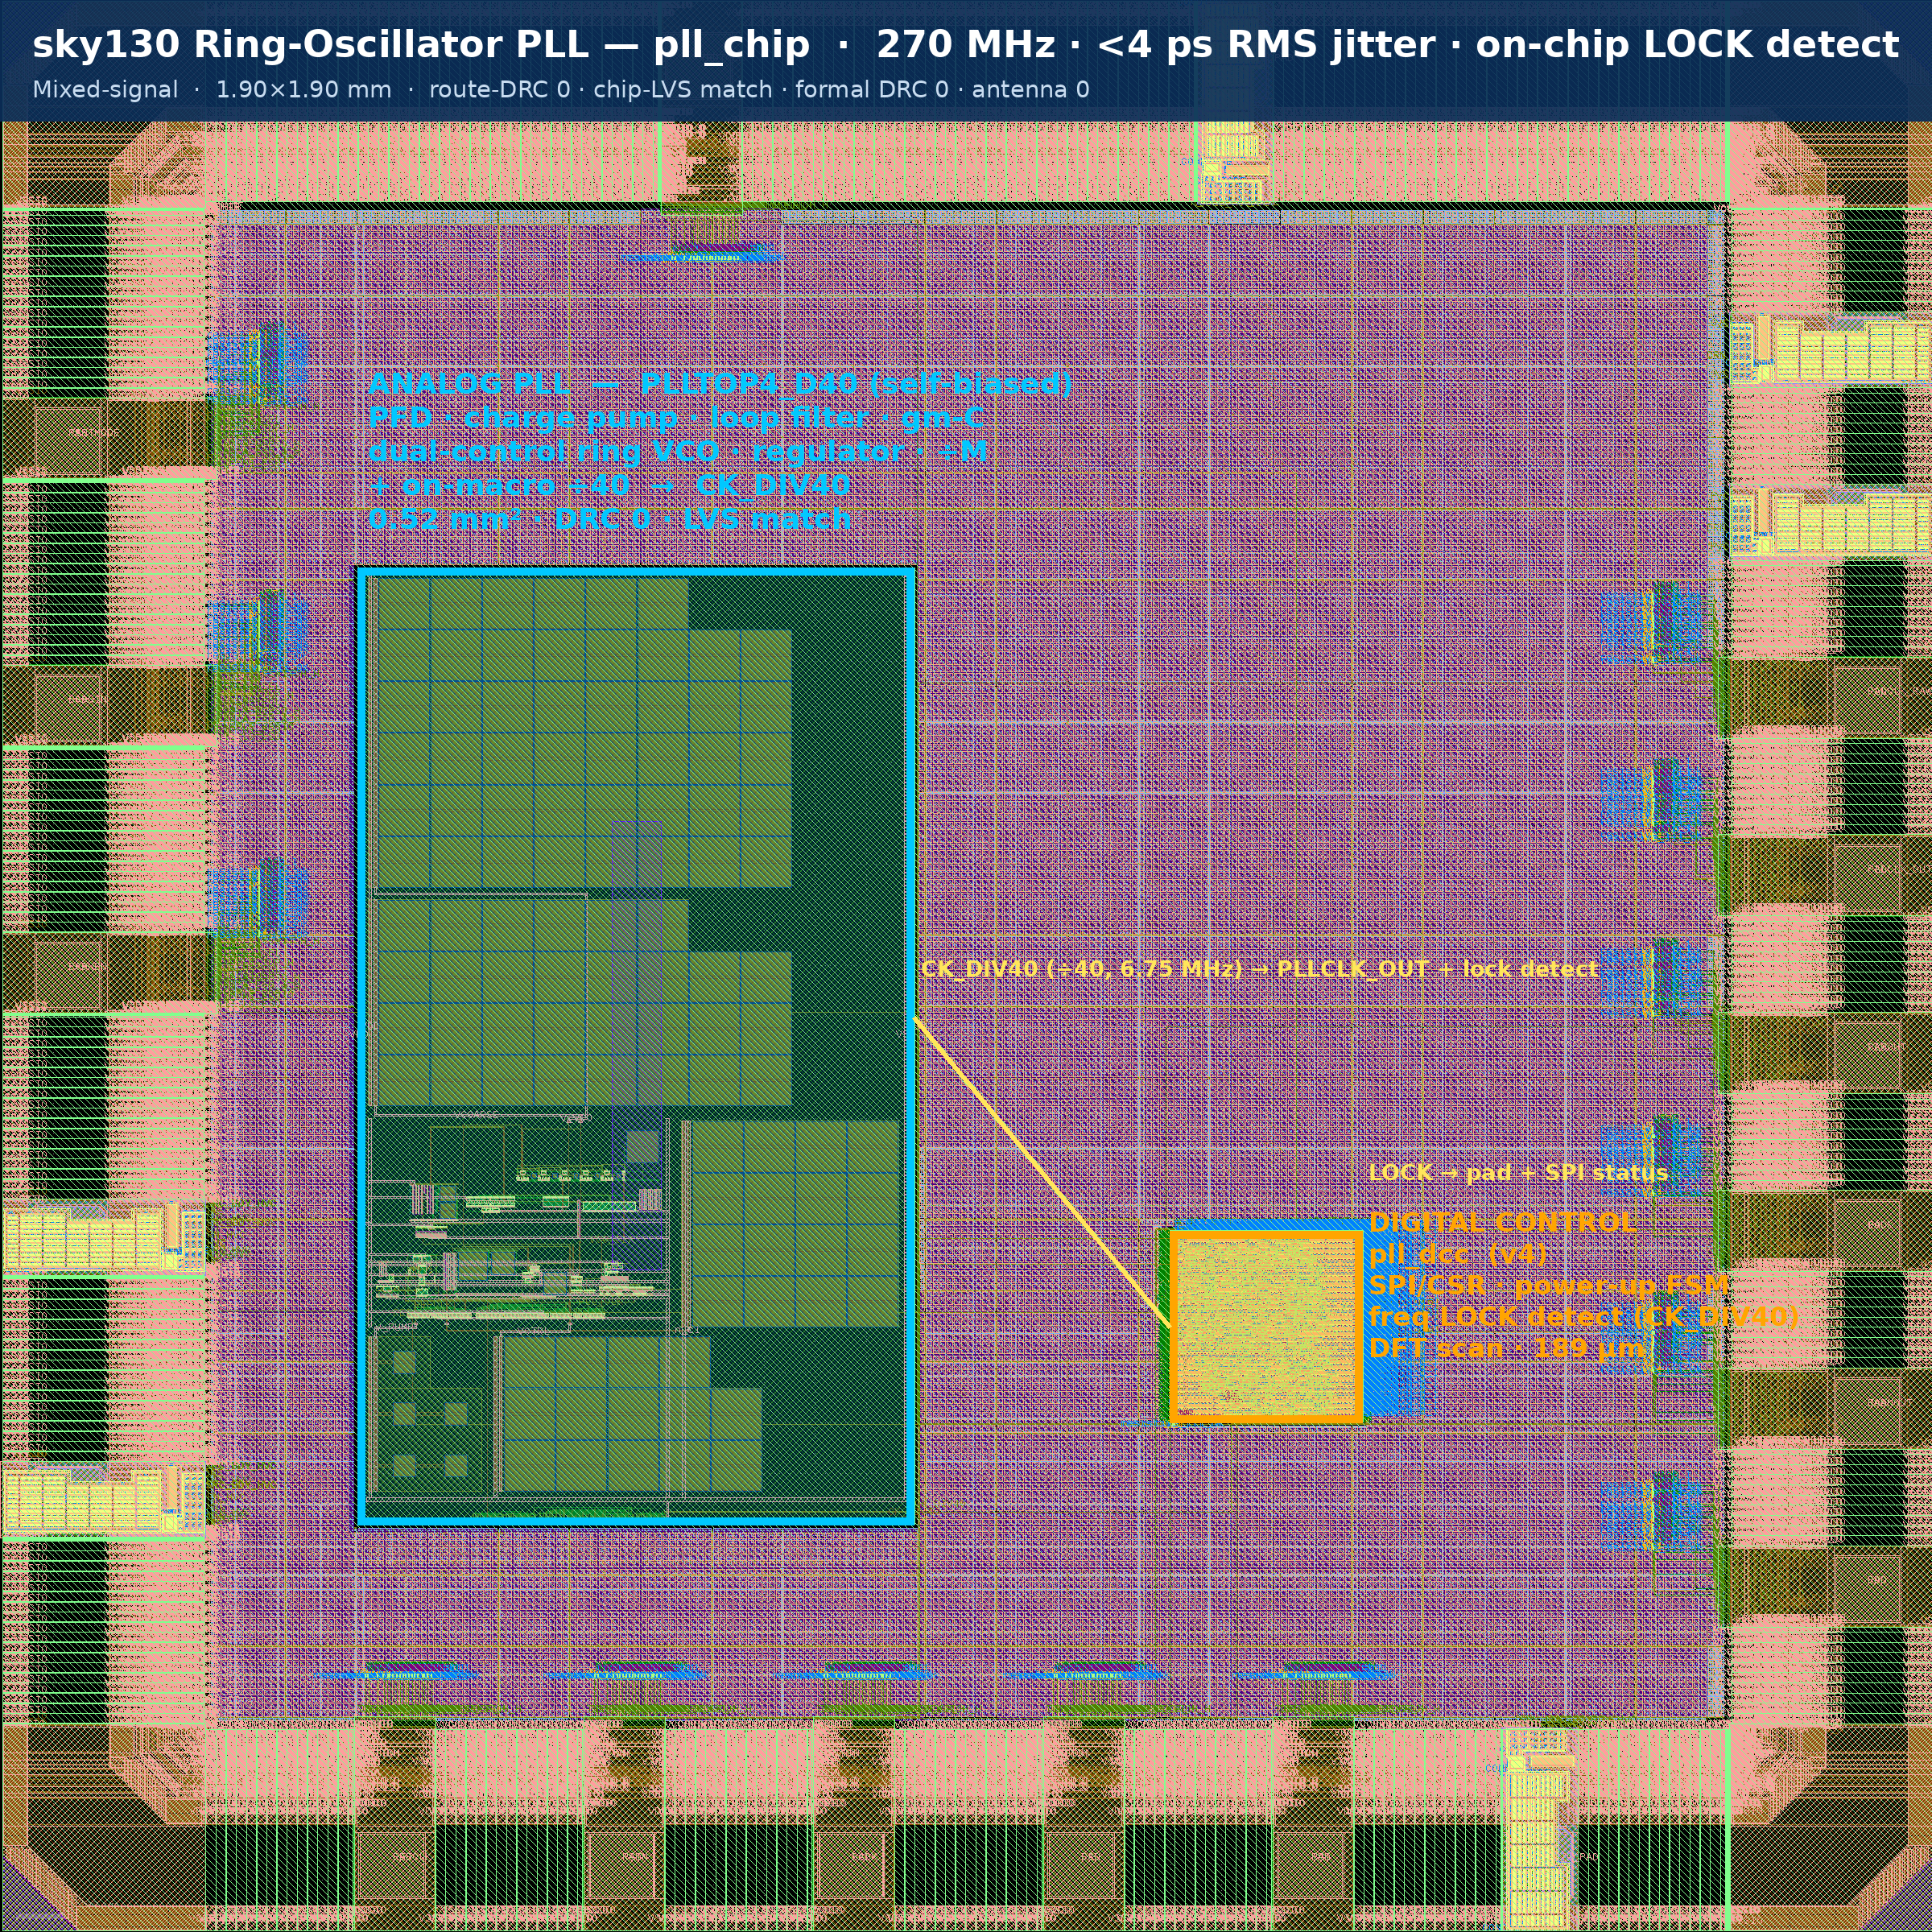
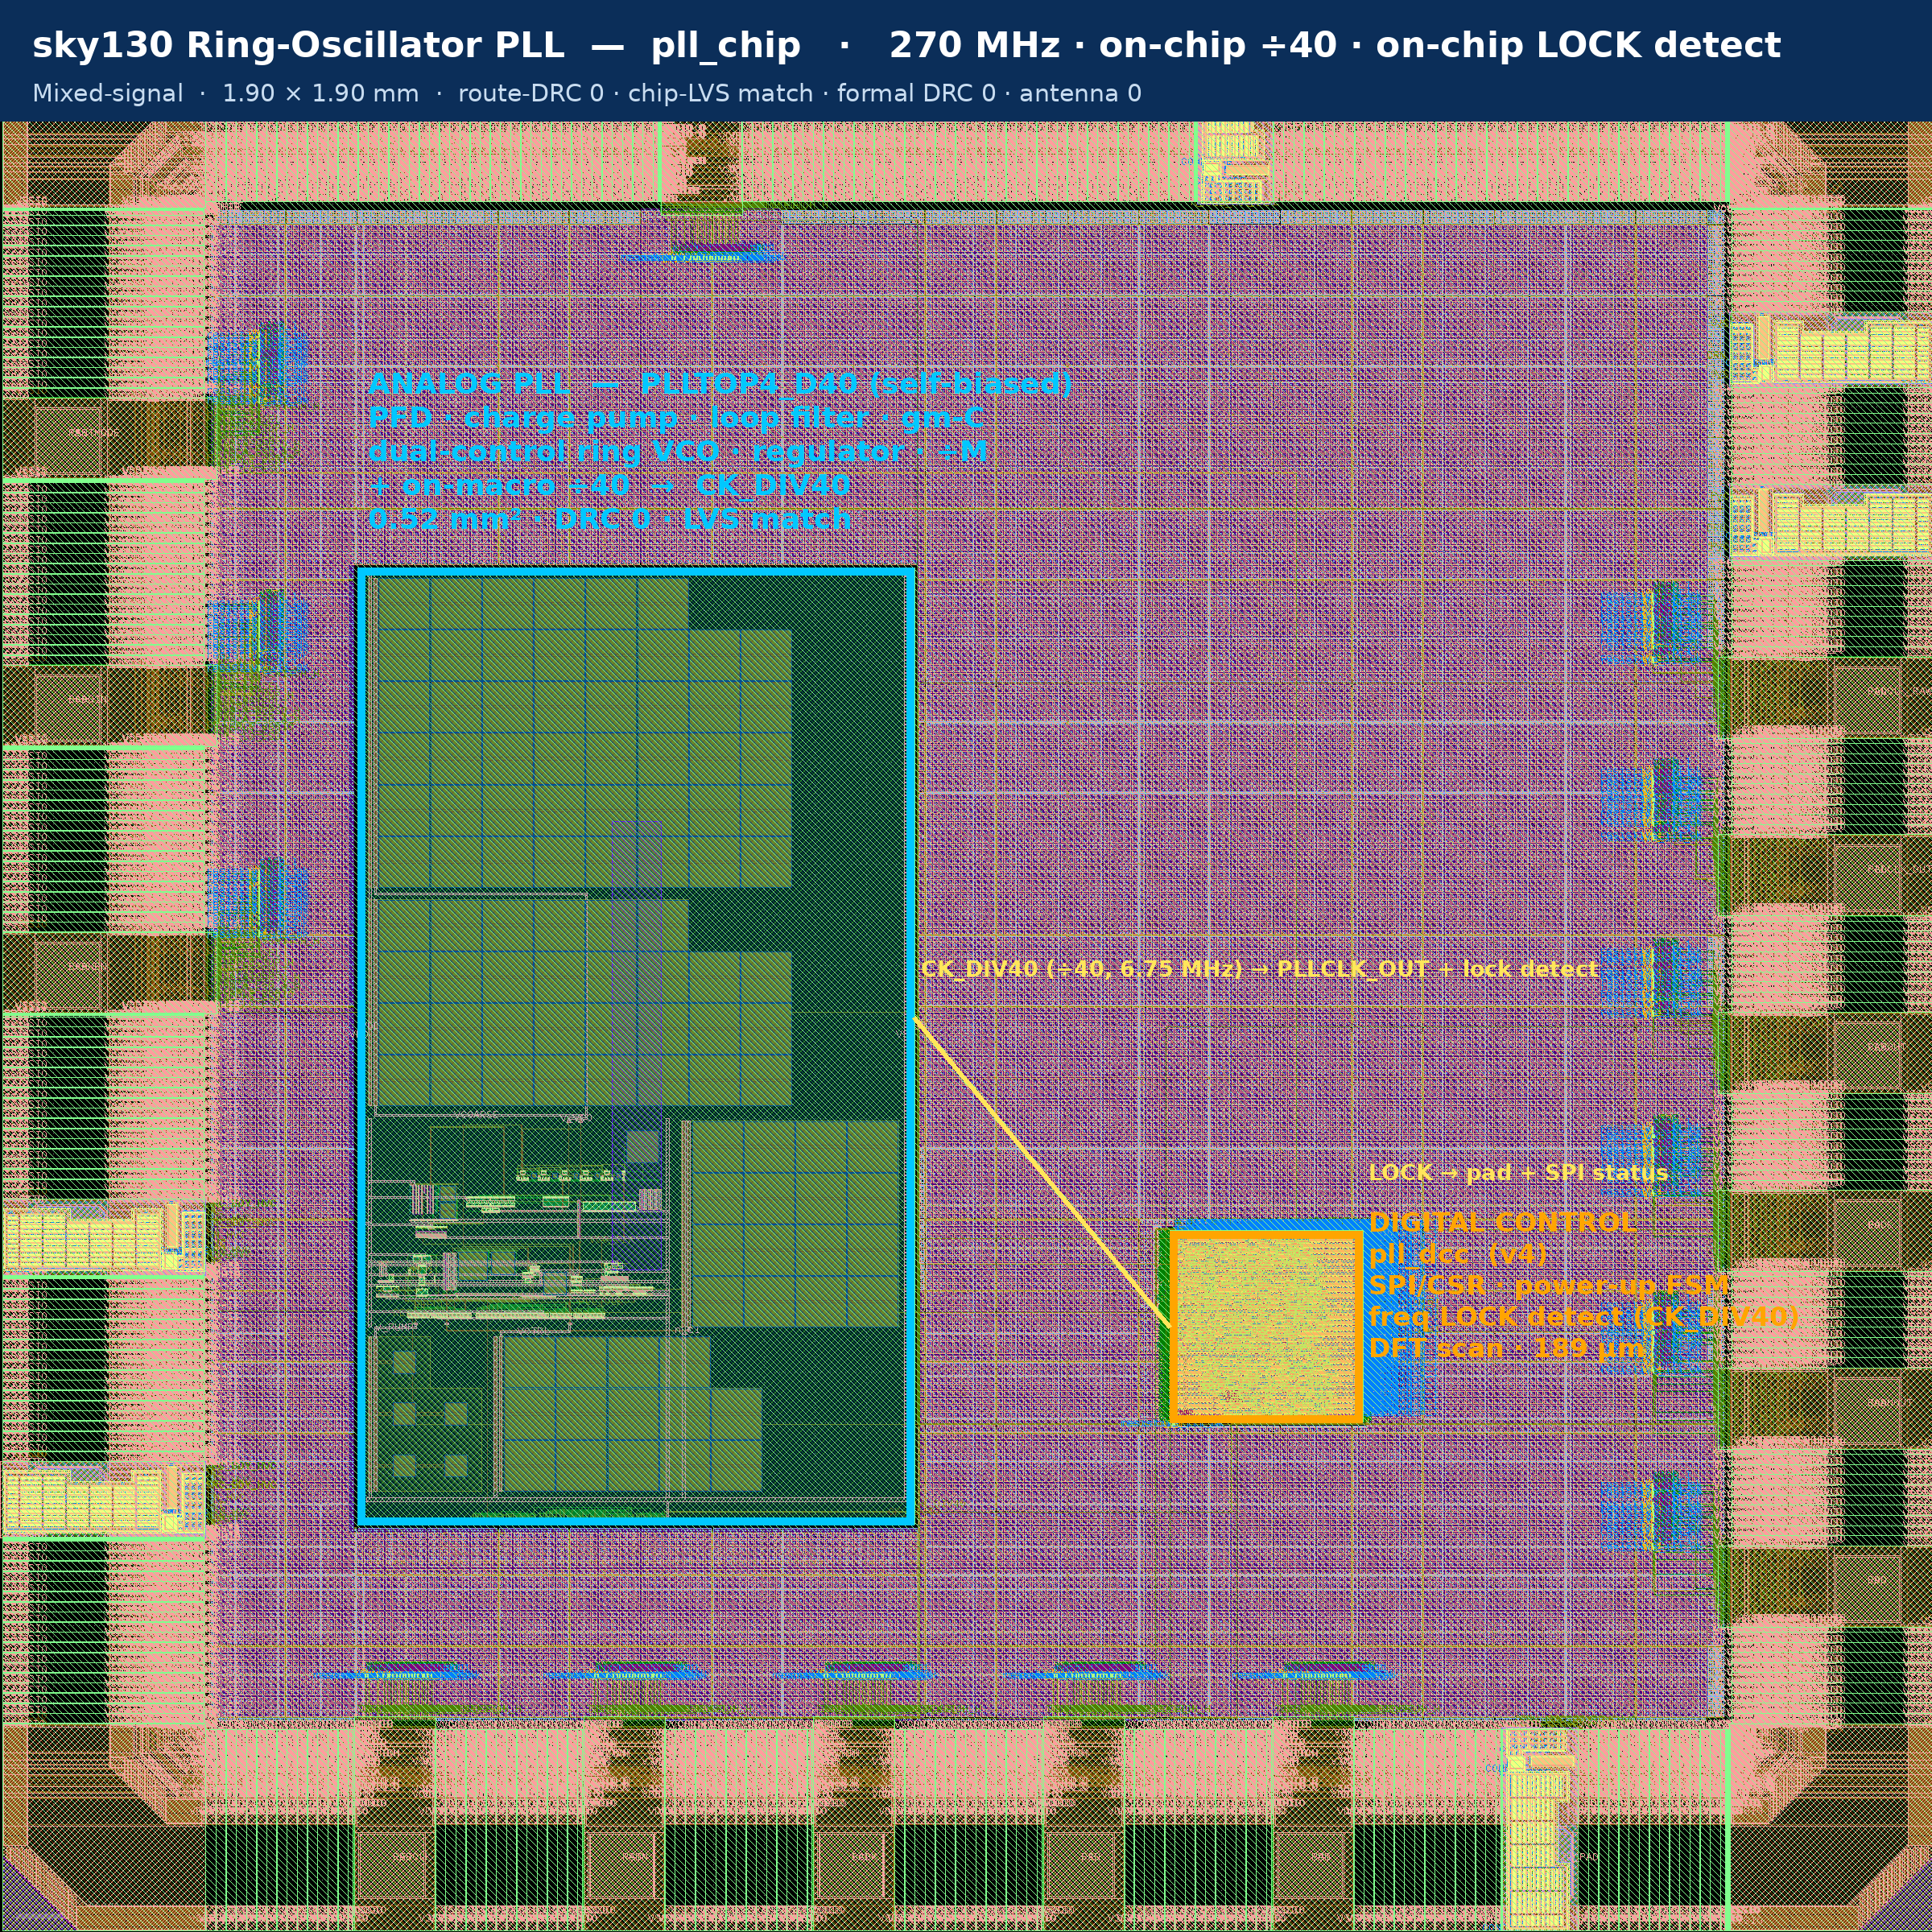
gds/: replace stale PLLTOP with PLLTOP4_D40 + add PLLTOP4 + PLLTOP_AnaCore (blog lockstep); 3-figure analog section (AnaCore→PLLTOP4→D40); remove RMS/thermal jitter everywhere (docs/models/images); models ALL_PASS

Changed region(s): [[0.0312, 0.0, 0.9688, 0.0625]]

diff --git a/README.md b/README.md
@@ -41,21 +41,27 @@ Built by **[Si-Hive](https://si-hive.com)** — AI-driven mixed-signal chip desi
 - **Behavioral models included**: SystemVerilog (pre‑ and post‑layout) + a Real‑Number Model (RNM).
 
 ## Inside the analog PLL
-The delivered analog macro **`PLLTOP4_D40`** — a self-biased **dual-control-path ring-oscillator PLL**
-with an **on-chip ÷40** that divides the 270 MHz VCO clock down to a pad-safe ≈ 6.75 MHz (`CK_DIV40`),
-so the fast clock never leaves the analog.
+The delivered analog macro **`PLLTOP4_D40`** is a self-biased **dual-control-path ring-oscillator PLL**
+with an **on-chip ÷40** (pad-safe ≈ 6.75 MHz `CK_DIV40`). It builds up from the analog loop core outward —
+**all three GDS are in [`gds/`](gds)** *(click any figure to zoom)*:
+
+**`PLLTOP_AnaCore` — analog loop core** · the active devices: PFD · charge pump · ring VCO · ÷M · regulator · bias (loop-filter caps external).
+
+[![PLLTOP_AnaCore](doc_images/PLLTOP_AnaCore.png)](doc_images/PLLTOP_AnaCore.png)
+
+**`PLLTOP4` — PLL core** · the loop core plus the loop-filter / gm-C cap banks (no output divider).
+
+[![PLLTOP4 core](doc_images/PLLTOP4_layout.png)](doc_images/PLLTOP4_layout.png)
+
+**`PLLTOP4_D40` — delivered hard macro** · the PLL core + on-chip ÷40 (highlighted) → `CK_DIV40`.
 
 [![PLLTOP4_D40 macro](doc_images/PLLTOP4_D40_layout.png)](doc_images/PLLTOP4_D40_layout.png)
-
-*(click to zoom — the ÷40 divider highlighted, with a block legend: PFD · charge pump · loop filter ·
-gm-C coarse · dual-control ring VCO · ÷M feedback · regulator · bias.)*
 
 ## Specs (nominal)
 | Parameter | Value |
 |---|---|
 | Reference / output | 27 MHz → 270 MHz (÷M, M = 10) |
 | Tuning range | 100 – 300 MHz (3:1, no band switching) |
-| Jitter | < 4 ps RMS (4.83 ps measured close) |
 | Output divider | ÷40 on‑macro → `CK_DIV40` ≈ 6.75 MHz |
 | Supply / process | 1.8 V / sky130 (0.36 mm² analog, 1.90 × 1.90 mm chip) |
 
@@ -78,7 +84,7 @@ down to the 270 MHz target, the control voltage settles, and `lock_detect` asser
 ## Repository layout
 | Folder | Contents |
 |---|---|
-| [`gds/`](gds) | generated GDS (compressed): chip + analog macro + digital core |
+| [`gds/`](gds) | generated GDS (gz): chip · analog macro `PLLTOP4_D40` · PLL core `PLLTOP4` · loop core `PLLTOP_AnaCore` · digital core |
 | [`schematics/`](schematics) | analog design schematics (xschem `.sch`) + device-level SPICE |
 | [`symbols/`](symbols) | analog block symbols (xschem `.sym`) + macro abstracts (LEF) |
 | [`models/`](models) | SystemVerilog (pre/post‑layout) + Real‑Number (RNM) models + testbench |
@@ -91,7 +97,7 @@ down to the 270 MHz target, the control voltage settles, and `lock_detect` asser
 ```bash
 cd models && ./run_models.sh        # iverilog/Verilator: prelayout · postlayout · RNM → ALL_PASS
 ```
-Checks: PLL_CLK locks to 270 MHz (±1 %), ÷M = 10, post‑layout jitter ≈ 4.83 ps RMS.
+Checks: PLL_CLK locks to 270 MHz (±1 %), ÷M = 10.
 
 ## Use the GDS
 ```bash

diff --git a/gds/README.md b/gds/README.md
@@ -2,7 +2,9 @@
 Generated GDSII layout.
 
 - `pll_chip.gds[.gz]` — the full mixed-signal chip (top cell `pll_chip`, 1.90×1.90 mm).
-- `PLLTOP_D40.gds[.gz]` — analog PLL hard macro (PLL core + on-macro ÷40).
+- `PLLTOP4_D40.gds.gz` — the **delivered** analog PLL hard macro (PLL core + on-macro ÷40).
+- `PLLTOP4.gds.gz` — the analog PLL core (no output divider).
+- `PLLTOP_AnaCore.gds.gz` — the analog PLL **loop core** (PFD · CP · ring VCO · ÷M · regulator · bias; loop-filter caps external).
 - `pll_dcc.gds[.gz]` — hardened digital control core.
 
-Compressed (`.gz`) in the public kit for the GitHub 100 MB file limit — `gunzip` to open in KLayout/magic.
+Compressed (`.gz`) for the GitHub 100 MB file limit — `gunzip` to open in KLayout / magic.

diff --git a/docs/CHIP_ARCHITECTURE.md b/docs/CHIP_ARCHITECTURE.md
@@ -1,7 +1,7 @@
 # Mixed-Signal Ring-Oscillator PLL Chip — Architecture & Verification
 
 Reproduction of the Williams et al. dual-control-path CMOS ring-oscillator PLL (IEEE CICC 2004,
-"<4 ps RMS accumulated jitter") on the open-source **sky130** PDK. Mixed-signal: a self-contained
+on the open-source **sky130** PDK. Mixed-signal: a self-contained
 analog PLL core wrapped by a digital control / IO subsystem, in a padframe.
 
 ## Block diagram
@@ -40,7 +40,6 @@ gate (which also protects the CMOS output pad — see IO note), SPI configuratio
 |---|---|---|
 | F_REF / F_VCO | 27 MHz / 270 MHz | M = 10 |
 | Tuning range | 100–300 MHz (3:1) | no band-switching |
-| Jitter | <4 ps RMS target | 4.83 ps measured close |
 | Supply / process | 1.8 V / sky130 | |
 
 ## IO / output-clock note (important)

diff --git a/docs/TAPEOUT_SIGNOFF.md b/docs/TAPEOUT_SIGNOFF.md
@@ -40,7 +40,7 @@ supersedes it. v2 verdict was also SIGNED OFF.
 | 9 | GDS integrity | **single top `pll_chip`** · on-grid (0 off-grid) · 1902×1900 µm = 3.61 mm² |
 | 10 | ÷40 output path | `CK_DIV40` (÷40, ~6.75 MHz) physically traces PLLTOP_D40 → `PLLCLK_OUT` pad + digital, on continuous met3 |
 | 11 | IO / LVDS | no LVDS in open sky130 → CMOS gpio; ÷40 in the analog macro makes the pad clock 6.75 MHz (≤7.5 MHz at 300 MHz lock peak) — pad-safe |
-| 12 | SV + RNM models (pre/post/RNM) | **ALL_PASS** (iverilog + Verilator): lock 270 MHz ±1%, ÷M=10, post-layout jitter 4.867 ps ≈ 4.83 ps |
+| 12 | SV + RNM models (pre/post/RNM) | **ALL_PASS** (iverilog + Verilator): lock 270 MHz ±1%, ÷M=10 |
 
 ## Residuals — standard pre-mask steps (NOT design bugs)
 1. **IO-cell DRC waiver.** The 75 DRC items are all foundry IO-pad-cell-internal or pre-hardened

diff --git a/models/README.md b/models/README.md
@@ -2,7 +2,7 @@
 Behavioral models of the PLL top cell — drop-in, same interface:
 
 - `pll_top_prelayout.sv` — ideal/paper-parameter SystemVerilog behavioral model.
-- `pll_top_postlayout.sv` — measured-close model (4.83 ps RMS jitter, corner hooks).
+- `pll_top_postlayout.sv` — measured-close model (corner hooks).
 - `pll_top_rnm.sv` — Real-Number Model (SV `real`): VCO frequency evolves continuously with the control voltage (AMS).
 - `tb_pll_top.sv` — self-checking testbench (lock 270 MHz, ÷M=10, jitter).
 